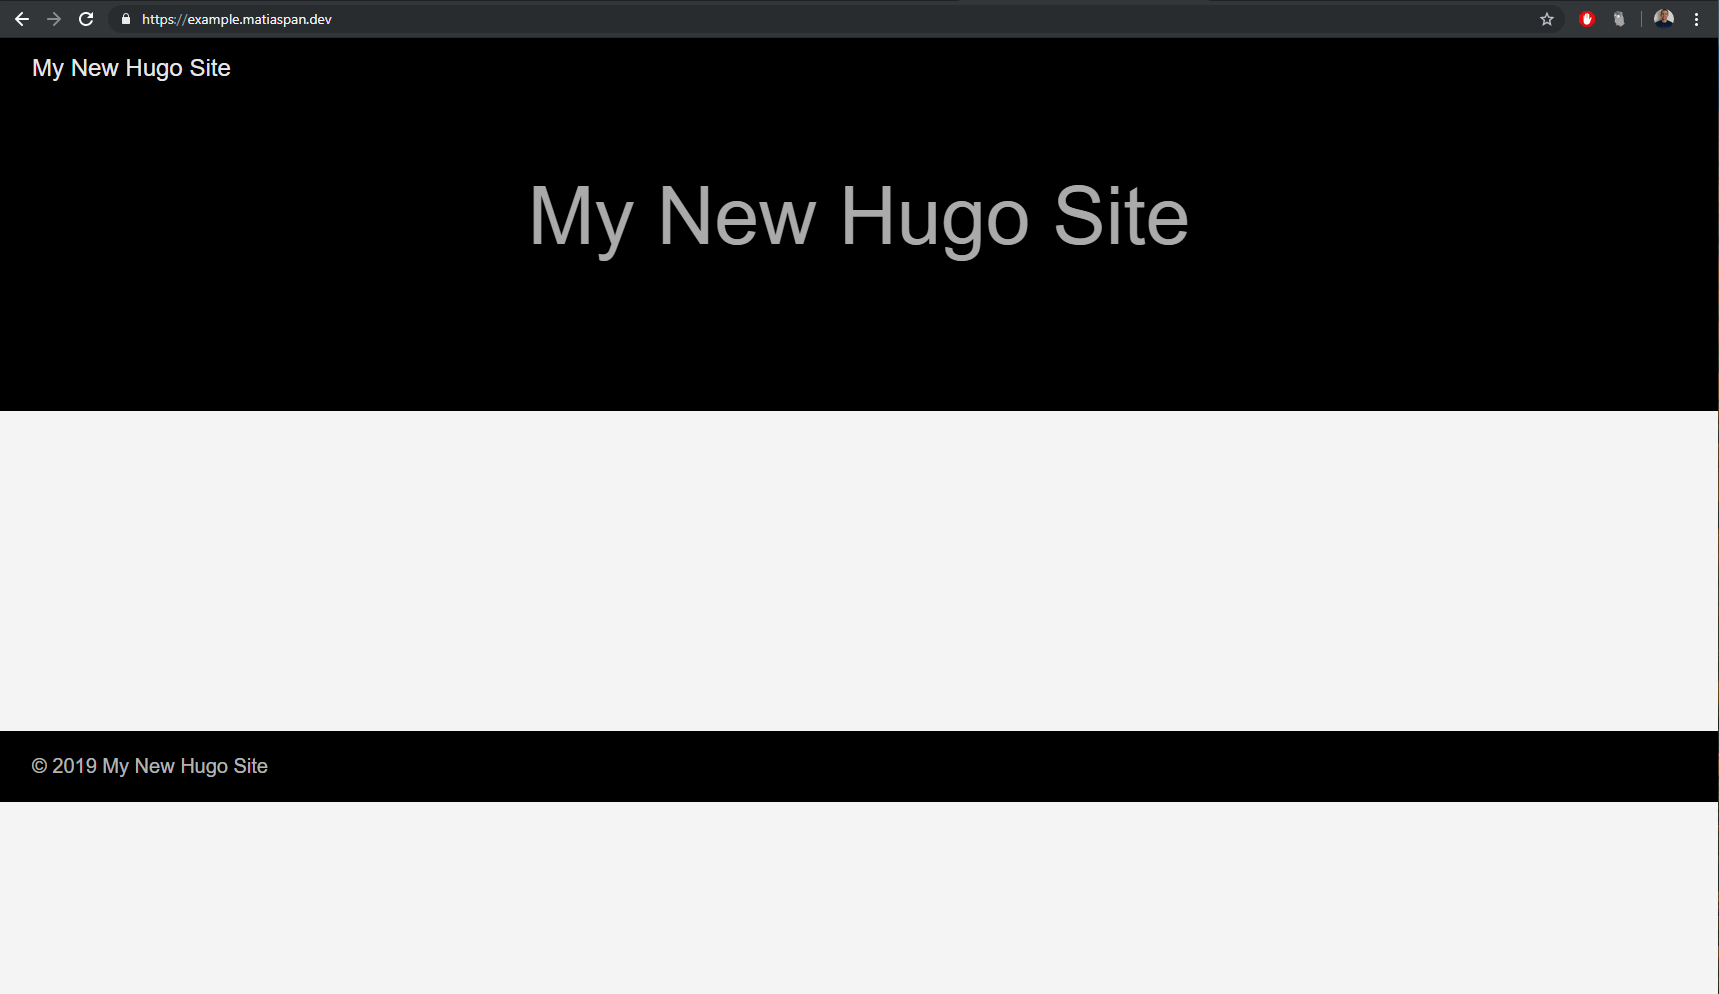
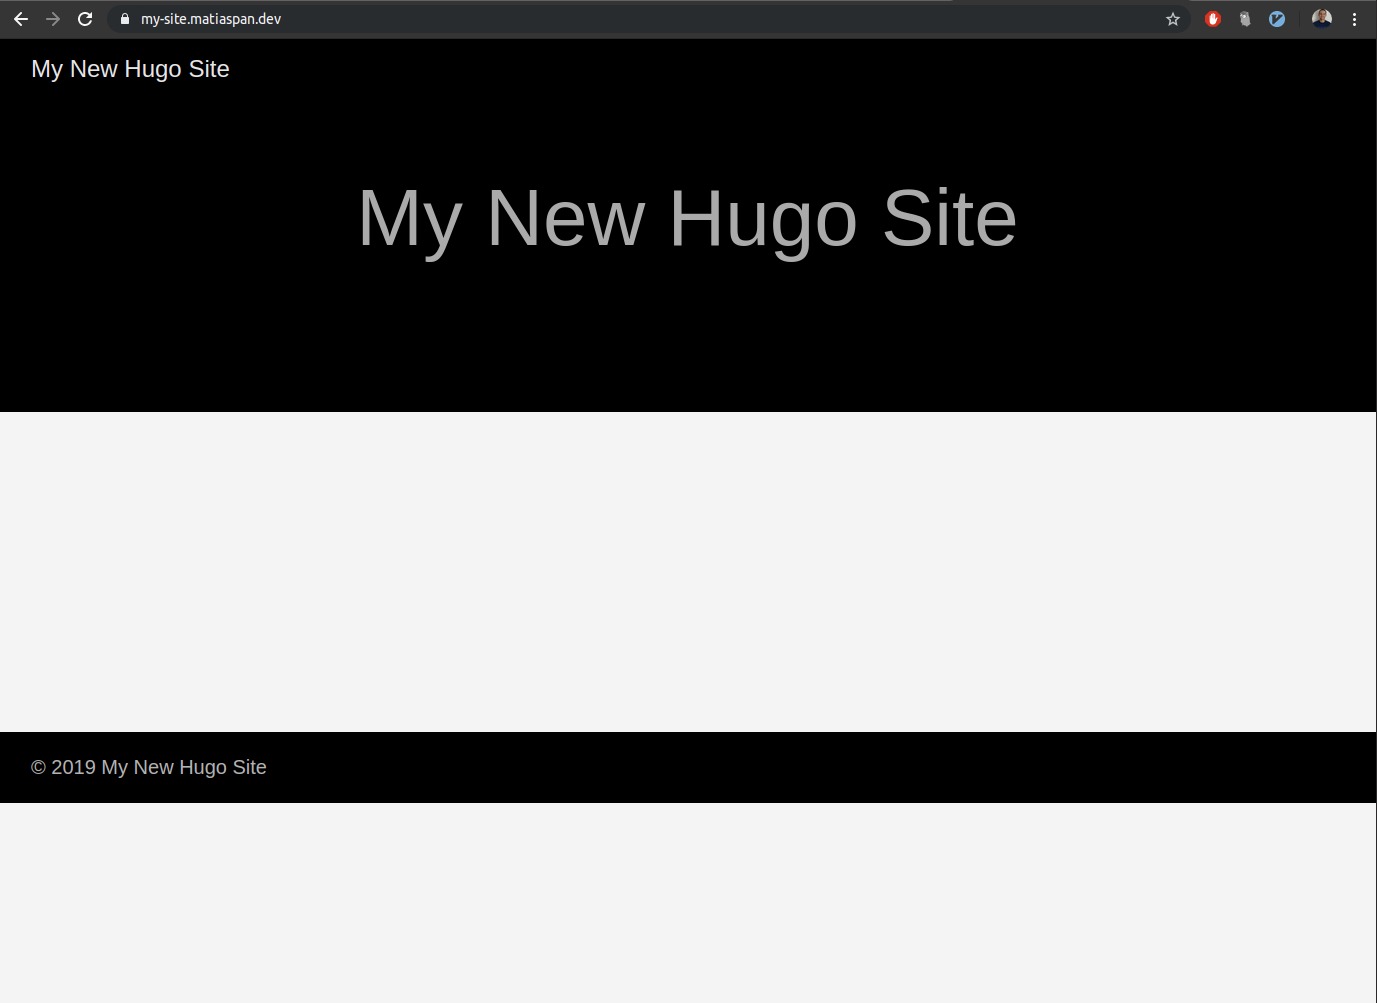
Address comments from the PR

diff --git a/_posts/2019-08-06-serverless-static-sites.md b/_posts/2019-08-06-serverless-static-sites.md
@@ -1,6 +1,6 @@
 ---
-title: "Bringing Serverless to a webpage near you with Hugo & Kubernetes"
-description: With the simplicity of OpenFaaS's templating system we can easily create new templates in no time. Today we will be showing how to continuosly deploy static sites using a new template for hugo and the FunctionIngress CRD for custom domain names.
+title: "Bringing Serverless to a Web Page Near you with Hugo & Kubernetes"
+description: With the extensibility of OpenFaaS's templating system we can create new templates in no time. Today we'll show how to continuously deploy static sites using a new template for Hugo and the FunctionIngress CRD for custom domain names.
 date: 2019-08-06
 image: /images/2019-serverless-static-sites/background.jpg
 categories:
@@ -8,17 +8,19 @@ categories:
   - end-user
   - ingress
   - kubernetes
-  - hugo
+  - Hugo
 author_staff_member: matias
 dark_background: true
 ---
 
-Learn how you can continuosly deploy static sites with Hugo, OpenFaaS Cloud (or GitLab) and the FunctionIngress CRD.
+Learn how you can continuously deploy static sites with Hugo, OpenFaaS Cloud (or GitLab) and the FunctionIngress CRD.
 
-## Pre-req
+## Pre-reqs
 * Kubernetes
 
-You need to have a Kubernetes cluster up & running. I recommend [DigitalOcean](https://www.digitalocean.com/), it's cost-efficient and very easy to set-up.
+You need to have a Kubernetes cluster up & running. I would recommend [DigitalOcean](https://www.digitalocean.com/), it's cost-efficient and very easy to set-up.
+
+[Get free credits](https://m.do.co/c/2962aa9e56a1).
 
 * [Install Helm](https://github.com/openfaas/faas-netes/blob/master/HELM.md)
 
@@ -26,11 +28,20 @@ You'll need helm to install the components in the cluster. If you can't install 
 
 * [Install OpenFaaS using Helm](https://github.com/openfaas/faas-netes/blob/master/chart/openfaas/README.md#install)
 
-For this tutorial you will need to install OpenFaaS using an ingress controller instead of exposing the gateway with a LoadBalancer. For this you'll need to set `ingress.enabled=true` and `exposeServices=false` when installing it.
+For this tutorial you will need to install OpenFaaS using an ingress controller instead of exposing the gateway with a LoadBalancer. For this you'll need to set `ingress.enabled=true` and `exposeServices=false` when installing it:
+```sh
+helm repo update \
+ && helm upgrade openfaas --install openfaas/openfaas \
+    --namespace openfaas  \
+    --set basic_auth=true \
+    --set functionNamespace=openfaas-fn \
+    --set ingress.enabled=true \
+    --set exposeServices=false
+```
 
 * Install an Ingress Controller
 
-Currently we support [Nginx](https://github.com/kubernetes/ingress-nginx), [Traefik](https://docs.traefik.io/user-guide/kubernetes/) and Zalando's [Skipper](https://opensource.zalando.com/skipper/kubernetes/ingress-controller/). We will be using Nginx for this tutorial:
+We will be using the new IngressOperator component which has support for the following IngressControllers: [Nginx](https://github.com/kubernetes/ingress-nginx), [Traefik](https://docs.traefik.io/user-guide/kubernetes/) and Zalando's [Skipper](https://opensource.zalando.com/skipper/kubernetes/ingress-controller/). I will be using Nginx for today's tutorial:
 ```sh
 helm install stable/nginx-ingress --name nginxingress --set rbac.create=true
 ```
@@ -39,8 +50,16 @@ helm install stable/nginx-ingress --name nginxingress --set rbac.create=true
 
 Installing the cert-manager to get automatic TLS certificates is optional but I highly recommend it. I will be using it today.
 
-## Install the Ingress Operator
-The Ingress Operator automatically manages the creation of custom ingress rules and TLS certificates for your functions using a new CRD called `FunctionIngress` introduced by Alex in the [previous blog post](https://www.openfaas.com/blog/custom-domains-function-ingress/).  
+* [Install the Hugo CLI](https://gohugo.io/getting-started/installing)
+
+You'll need the Hugo CLI to create a static site and serve it locally.
+
+* DNS management
+
+You'll need to create an A record to serve your static site. I'm using [DigitalOcean](https://digitalocean.com) that offers this for free, if you'd like to use it then [install their command lite tool](https://github.com/digitalocean/doctl#installing-doctl).
+
+## Install the IngressOperator
+The IngressOperator automatically manages the creation of custom ingress rules and TLS certificates for your functions using a new CRD called `FunctionIngress` introduced by Alex in the [previous blog post](https://www.openfaas.com/blog/custom-domains-function-ingress/).  
 Lets deploy the operator to our cluster following the instructions at [the documentation](https://docs.openfaas.com/reference/ssl/kubernetes-with-cert-manager/#20-ssl-and-custom-domains-for-functions):
 ```sh
 git clone https://github.com/openfaas-incubator/ingress-operator
@@ -51,32 +70,43 @@ kubectl apply -f ./artifacts/operator-rbac.yaml
 kubectl apply -f ./artifacts/operator-amd64.yaml
 ```
 
-## Introducing the hugo template
-Today I'm showing you a new template for creating [hugo](https://gohugo.io) static sites that took me little to no time to make thanks to the simplicity and flexibility of [OpenFaaS's templating system](https://www.openfaas.com/blog/template-store/). You can check it out [here](https://github.com/matipan/openfaas-hugo-template).  
-The template copies over the contents of your hugo site, builds it into the `public` directory and then uses a [very lightweight static server](https://gitlab.com/matipan/static-server) that serves the content and provides a healtcheck that follows the standards from OpenFaaS.
+## Meet the Hugo template
+[OpenFaaS's templates](https://www.openfaas.com/blog/template-store/) are no more than Dockerfiles that specify the entire process of building and serving your application. Today I'm showing you a new template for creating [Hugo](https://gohugo.io) static sites called [openfaas-hugo-template](https://github.com/matipan/openfaas-hugo-template).  
+This template copies the contents of your Hugo site, builds it into the `public` directory and then uses a [very lightweight static server](https://gitlab.com/matipan/static-server) that serves the content and provides a health check that follows the standards from OpenFaaS.
 
 ## Create a new Hugo site
-We can use the hugo template to create hugo sites and then serve them with custom domain names using OpenFaaS and the Ingress Operator. First lets create the site:
+We can use the Hugo template to create Hugo sites and then serve them with custom domain names using OpenFaaS and the IngressOperator. First lets create the site:
 ```sh
 git init
 faas template pull https://github.com/matipan/openfaas-hugo-template
 faas new --lang hugo -g <openfaas gateway url> --prefix <docker hub username> example-site
 ```
-This will create a folder called `example-site`, `cd` into it and now create the site with this instructions from the [hugo quickstart guide](https://gohugo.io/getting-started/quick-start/#step-2-create-a-new-site):
+This will create a folder called `example-site`, `cd` into it and now create the site with this instructions from the [Hugo quick-start guide](https://gohugo.io/getting-started/quick-start/#step-2-create-a-new-site):
 ```sh
 hugo new site .
 git submodule add https://github.com/budparr/gohugo-theme-ananke.git themes/ananke
 echo 'theme = "ananke"' >> config.toml
 ```
-At this point you can run `hugo server` in that directory to build and test your site locally without needing to deploy it to OpenFaaS. Remember to update the `baseURL` found in the `config.toml` to the domain that you will be using.
+When you are developing new content you'll probably want to see what it looks like before deploying it. To do this, you can use the `hugo server` command inside the function's directory:
+```
+hugo server
+Watching for changes in /home/capitan/src/gitlab.com/matipan/openfaas-hugo-blog/blog/{archetypes,content,static}
+Watching for config changes in /home/capitan/src/gitlab.com/matipan/openfaas-hugo-blog/blog/config.toml
+Environment: "development"
+Serving pages from memory
+Running in Fast Render Mode. For full rebuilds on change: hugo server --disableFastRender
+Web Server is available at http://localhost:1313/ (bind address 127.0.0.1)
+Press Ctrl+C to stop
+```
+Now go to http://localhost:1313 and check out what your site looks like.
 
-Deploy your blog:
+Remember to update the `baseURL` found at `config.toml` to the domain that you will be using. Now deploy your site:
 ```sh
 faas-cli up -f example-site.yml
 ```
 
 ## Create a DNS A record for your sub-domain
-I'm using my personal domain `matiaspan.dev` that I got at [namecheap.com](https://namecheap.com). I can create sub-domains for each function. If you are familiar with DNS, then create an A record for the IP address of the LoadBalancer created for the ingress controller(i.e nginx):
+I'm using my personal domain `matiaspan.dev` that I got at [namecheap.com](https://namecheap.com). I can create sub-domains for each function. If you are familiar with DNS, then create an A record for the IP address of the LoadBalancer created for the ingress controller (i.e nginx):
 ```sh
 kubectl get svc -n default
 NAME                                         TYPE           CLUSTER-IP       EXTERNAL-IP      PORT(S)                      AGE
@@ -84,12 +114,12 @@ nginxingress-nginx-ingress-controller        LoadBalancer   10.245.116.147   159
 ```
 
 You can see that my external IP address is: `159.89.221.240`.  
-If you are getting started with DNS management I recommend [DigitalOcean](https://digitalocean.com), it's free and has a great developer experience. Here is how I use the CLI to create the record for `example.matiaspan.dev`:
+If you are getting started with DNS management I recommend [DigitalOcean](https://digitalocean.com) which is free and easy to use. Here is how I use the CLI to create the record for `my-site.matiaspan.dev`:
 ```sh
-doctl compute domain create example.matiaspan.dev --ip-address 159.89.221.240
+doctl compute domain create my-site.matiaspan.dev --ip-address 159.89.221.240
 
 Domain                     TTL
-example.matiaspan.dev      0
+my-site.matiaspan.dev      0
 ```
 And this is how the UI looks like:
 
@@ -106,7 +136,7 @@ metadata:
   name: example-site-tls
   namespace: openfaas
 spec:
-  domain: "example.matiaspan.dev"
+  domain: "my-site.matiaspan.dev"
   function: "example-site"
   ingressType: "nginx"
   tls:
@@ -123,13 +153,13 @@ spec:
 Now apply the file with `kubectl apply -f example-site-fni.yml`
 
 ## Check out your brand new site!
-After creating the `FunctionIngress` our Ingress Operator will detect the recently created CRD and create an ingress record. If you are using TLS this ingress will be decorated with annotations that the CertManager then detects and creates the TLS certificate for your site.
+After creating the `FunctionIngress` our IngressOperator will detect the recently created CRD and create an ingress record. If you are using TLS this ingress will be decorated with annotations that the CertManager then detects and creates the TLS certificate for your site.
 
 Check the ingress record:
 ```sh
 kubectl get ingress -n openfaas
 NAME                  HOSTS                   ADDRESS          PORTS     AGE
-example-site-tls      example.matiaspan.dev   165.22.164.208   80, 443   56s
+example-site-tls      my-site.matiaspan.dev   165.22.164.208   80, 443   56s
 ```
 Now the certificate:
 ```sh
@@ -141,13 +171,17 @@ If you modify or delete the `FunctionIngress` then the certificate and the ingre
 
 Navigate to your domain and check out your new site!
 
-![Example website deployed at example.matiaspan.dev](/images/2019-serverless-static-sites/hugo-example-site.png)
+![Example website deployed at my-site.matiaspan.dev](/images/2019-serverless-static-sites/hugo-example-site.png)
 
-## CI/CD with OpenFaaS Cloud
+## CI/CD
+There are great tools available like [Netlify](https://netlify.com) and [Heroku](https://heroku.com) that allows us to have a completely automated experience. With a single push you get the new content of your site automatically deployed.  
+I'm going to go over two different ways you can get this same experience using OpenFaaS Cloud or GitLab.
+
+### CI/CD with OpenFaaS Cloud
 [OpenFaaS Cloud](https://github.com/openfaas/openfaas-cloud) can offer you an automated experience, with a single push you can have your site deployed in no time!  
 If this sounds interesting to you check out our "single click" [bootstrap tool](https://github.com/openfaas-incubator/ofc-bootstrap) to install OpenFaaS Cloud in less than 100 seconds or apply for access to the [Community Cluster](https://github.com/openfaas/community-cluster).
 
-In OpenFaaS Cloud by default we limit the templates that the users can use. This means we need to add the hugo template before being able to deploy a function. To do this, edit the `git-tar` deployment in the `openfaas-fn` namespace and add the hugo template url `https://github.com/matipan/openfaas-hugo-template` to the `custom_templates` environment variable.
+In OpenFaaS Cloud by default we limit the templates that the users can use. This means we need to add the Hugo template before being able to deploy a function. To do this, edit the `git-tar` deployment in the `openfaas-fn` namespace and add the Hugo template URL `https://github.com/matipan/openfaas-hugo-template` to the `custom_templates` environment variable.
 
 Create a repository on GitHub(or your self hosted GitLab) called `example-site`. Add this repository to your GitHub app or add the `openfaas-cloud` tag if you are using GitLab.  
 Since we don't do recursive clones in OpenFaaS Cloud you will need to clone your site's theme instead of adding it as a submodule. Once you've done that commit and push your changes.  
@@ -160,7 +194,7 @@ metadata:
   name: example-site-tls
   namespace: openfaas
 spec:
-  domain: "example.matiaspan.dev"
+  domain: "my-site.matiaspan.dev"
   function: "<username>-example-site"
   ingressType: "nginx"
   tls:
@@ -176,11 +210,11 @@ We won't be using our previous function anymore so remove it:
 faas-cli remove example-site
 ```
 
-Try creating a new blog post with: `hugo new posts/my-first-post.md`. Remember to run that command inside the folder of your hugo site, not the root folder of the project.  
-Commit and push your changes again, after OpenFaaS Cloud does its thing you will be able to see your new changes deployed. Awesome!
+Try creating a new blog post with: `Hugo new posts/my-first-post.md`. Remember to run that command inside the folder of your Hugo site, not the root folder of the project.  
+Commit and push your changes again, after OpenFaaS Cloud does its thing you will be able to see your new changes deployed.
 
-## CI/CD with GitLab
-If you can't or don't want to install OpenFaaS Cloud but you still want to have a [Netlify](https://netlify.com)-like experience then you can host your repository on GitLab and use their free CI/CD offerings. Save the following to a YAML file in the root folder of the repo `.gitlab-ci.yml`:
+### CI/CD with GitLab
+GitLab offers 2000 hours/month for free in their CI/CD offerings. We can take advantage of the [Shared Runners](https://docs.gitlab.com/ce/ci/quick_start/#shared-runners) that allow us to build docker images. Save the following content [from OpenFaaS's official documentation](https://docs.openfaas.com/reference/cicd/gitlab/) to a YAML file in the root folder of the repository `.gitlab-ci.yml`:
 ```yaml
 image: docker:stable
 
@@ -201,7 +235,7 @@ build:
     - git submodule init && git submodule update
     # Build Docker image
     - /usr/local/bin/faas-cli template pull https://github.com/matipan/openfaas-hugo-template
-    - /usr/local/bin/faas-cli build --tag=sha --parallel=2 -f example-site.yml
+    - /usr/local/bin/faas-cli build --tag=sha -f example-site.yml
 
     # Login & Push Docker image to private repo
     - echo -n "$CI_DOCKER_LOGIN" |  docker login --username $(echo -n "$CI_DOCKER_USERNAME") --password-stdin
@@ -223,7 +257,7 @@ Go to your project's CI/CD page and set the following variables:
 Commit and push your changes and see how your function gets automatically built and deployed!
 
 ## Wrapping up
-The hugo template we showed today combined with the Ingress Operator and OpenFaaS Cloud(or GitLab CI/CD) allowed us to create a great way to build and host sites for your project's documentation, personal blogs and more.  
+The Hugo template we showed today combined with the IngressOperator and OpenFaaS Cloud(or GitLab CI/CD) allowed us to create a great way to build and host sites for your project's documentation, personal blogs and more.  
 I chose Hugo for today's blog post but you can create another template for your favorite tool. Check out this [static server](https://gitlab.com/matipan/static-server) for an easy way to serve the content built by your static site tool.
 
 Connect with us to discuss further or to share what you’ve built.
